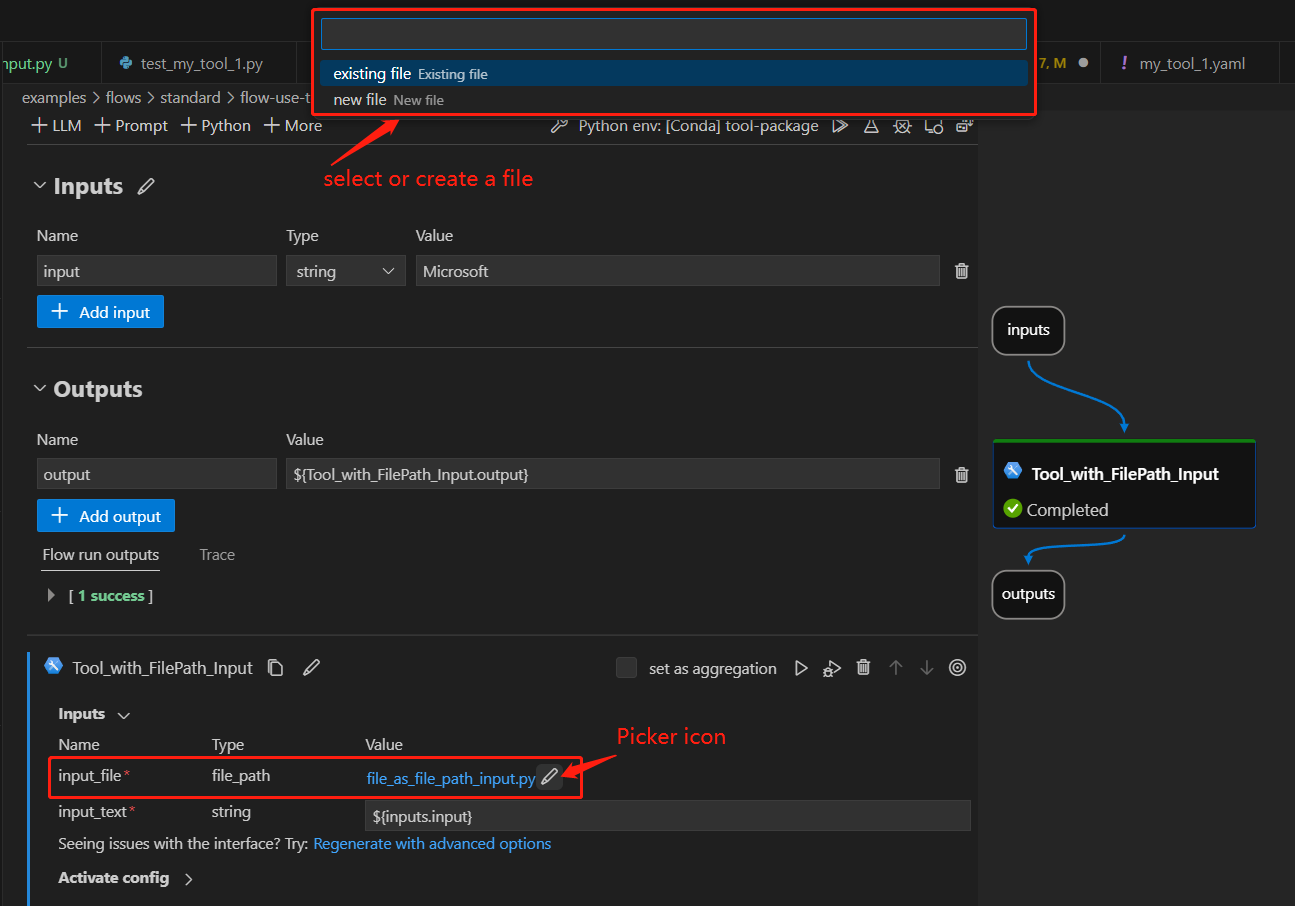
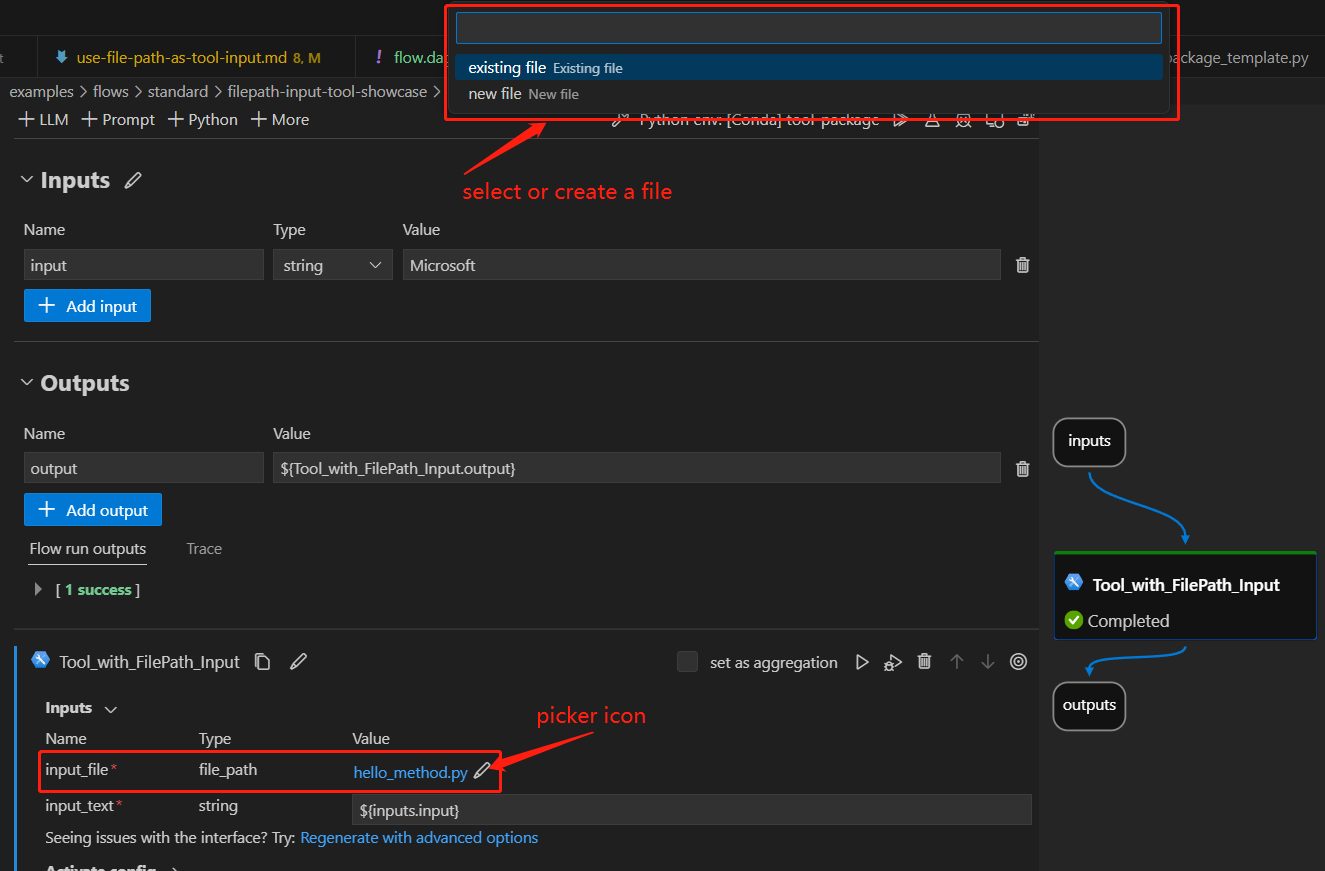
resolve previous comments

diff --git a/examples/tools/tool-package-quickstart/tests/test_tool_with_file_path_input.py b/examples/tools/tool-package-quickstart/tests/test_tool_with_file_path_input.py
@@ -7,7 +7,7 @@ from my_tool_package.tools.tool_with_file_path_input import my_tool
 
 @pytest.fixture
 def my_file_path_input() -> FilePath:
-    my_file_path_input = FilePath(".\\test_utils\\file_as_file_path_input.py")
+    my_file_path_input = FilePath(".\\test_utils\\hello_method.py")
     return my_file_path_input
 
 

diff --git a/docs/how-to-guides/develop-a-tool/use-file-path-as-tool-input.md b/docs/how-to-guides/develop-a-tool/use-file-path-as-tool-input.md
@@ -1,22 +1,22 @@
-# Use file path as tool input
+# Using File Path as tool input
 
-User sometimes need to reference their local files within a tool to implement some specific logic. To simplify this, we've introduced the FilePath input type. This input type enables users to either select an existing file or create a new one, then pass it to a tool, enabling the tool to access the file's content.
+Users sometimes need to reference local files within a tool to implement specific logic. To simplify this, we've introduced the `FilePath` input type. This input type enables users to either select an existing file or create a new one, then pass it to a tool, allowing the tool to access the file's content.
 
-In this guide, we will provide a detailed walkthrough on how to use FilePath as a tool input. We will also demostrate the user experience when utilizing this type of tool within a flow.
+In this guide, we will provide a detailed walkthrough on how to use `FilePath` as a tool input. We will also demostrate the user experience when utilizing this type of tool within a flow.
 
 ## Prerequisites
 
-As FilePath is currently in its preview phase, it is necessary for you to install the test version of the PromptFlow package:
+As file path is currently in its preview phase, it is necessary for you to install the test version of the PromptFlow package:
 
     ```bash
     pip install "promptflow==0.1.0b8.dev2" --extra-index-url https://azuremlsdktestpypi.azureedge.net/promptflow
     ```
 
-## Use file path as tool input
+## How to create a tool with file path input
 
-Here we use [an existing tool package](../../../examples/tools/tool-package-quickstart/my_tool_package) as an example. If you want to create your owner tool, please refer to [create and use tool package](https://github.com/microsoft/promptflow/blob/main/docs/how-to-guides/develop-a-tool/create-and-use-tool-package.md#create-custom-tool-package).
+Here we use [an existing tool package](https://github.com/microsoft/promptflow/tree/main/examples/tools/tool-package-quickstart/my_tool_package) as an example. If you want to create your owner tool, please refer to [create and use tool package](https://github.com/microsoft/promptflow/blob/main/docs/how-to-guides/develop-a-tool/create-and-use-tool-package.md#create-custom-tool-package).
 
-1. Add FilePath input for your tool, refer to [this tool](../../../examples/tools/tool-package-quickstart/my_tool_package/tools/tool_with_file_path_input.py).
+1. Add a `FilePath` input for your tool, like in [this example](../../../examples/tools/tool-package-quickstart/my_tool_package/tools/tool_with_file_path_input.py).
 
     ```python
     import importlib
@@ -34,10 +34,10 @@ Here we use [an existing tool package](../../../examples/tools/tool-package-quic
         return new_module.hello(input_text)   
     ```
 
-2. FilePath input format in a tool yaml, refer to [this tool yaml](../../../examples/tools/tool-package-quickstart/my_tool_package/yamls/tool_with_file_path_input.yaml)
+2. `FilePath` input format in a tool YAML, like in [this example](../../../examples/tools/tool-package-quickstart/my_tool_package/yamls/tool_with_file_path_input.yaml)
 
    ```yaml
-    my_tool_package.tools.my_tool_1.tool_with_file_path_input:
+    my_tool_package.tools.tool_with_file_path_input.my_tool:
       function: my_tool
         inputs:
           # yaml format for FilePath input
@@ -57,17 +57,20 @@ Here we use [an existing tool package](../../../examples/tools/tool-package-quic
 
 
 ## Use tool with a file path input in VS Code extension
-Follow steps to [build and install your tool package](https://github.com/jiazengcindy/mpromptflow/blob/jiazeng/modify_icon_doc/docs/how-to-guides/develop-a-tool/create-and-use-tool-package.md#build-and-share-the-tool-package) and [use your tool from VS Code extension](https://github.com/jiazengcindy/mpromptflow/blob/jiazeng/modify_icon_doc/docs/how-to-guides/develop-a-tool/create-and-use-tool-package.md#use-your-tool-from-vscode-extension).
+Follow steps to [build and install your tool package](https://github.com/microsoft/promptflow/blob/main/docs/how-to-guides/develop-a-tool/create-and-use-tool-package.md#build-and-share-the-tool-package) and [use your tool from VS Code extension](https://github.com/microsoft/promptflow/blob/main/docs/how-to-guides/develop-a-tool/create-and-use-tool-package.md#use-your-tool-from-vscode-extension).
 
-Here we use an existing flow to demonstrate the experience, open [this flow]((../../../examples/flows/standard/flow-use-tool-with-file-path-input/flow.dag.yaml)) in VS Code extension:
-- There is a node named "Tool_with_FilePath_Input" has a file_path type input: input_file;
-- Click the picker icon to trigger the UI to select an existing file or create a new file and use it as input;
+Here we use an existing flow to demonstrate the experience, open [this flow](../../../examples/flows/standard/filepath-input-tool-showcase/flow.dag.yaml) in VS Code extension:
+- There is a node named "Tool_with_FilePath_Input" with a `file_path` type input called `input_file`.
+- Click the picker icon to open the UI for selecting an existing file or creating a new file to use as input.
 
    ![](../../media/how-to-guides/develop-a-tool/use_file_path_in_flow.png)
 
 ## FAQ
 
-### Practical use cases via this feature?
+### What are some practical use cases for this feature?
+The `FilePath` input enables several useful workflows:
 
-1. Load module from specific python script as the proceeding demo.
-2. Load data from .css, .txt files.
+1. **Dynamically load modules** - As shown in the demo, you can load a Python module from a specific script file selected by the user. This allows flexible custom logic.
+2. **Load arbitrary data files** - The tool can load data from files like .csv, .txt, .json, etc. This provides an easy way to inject external data into a tool.
+
+So in summary, `FilePath` input gives tools flexible access to external files provided by users at runtime. This unlocks many useful scenarios like the ones above.
